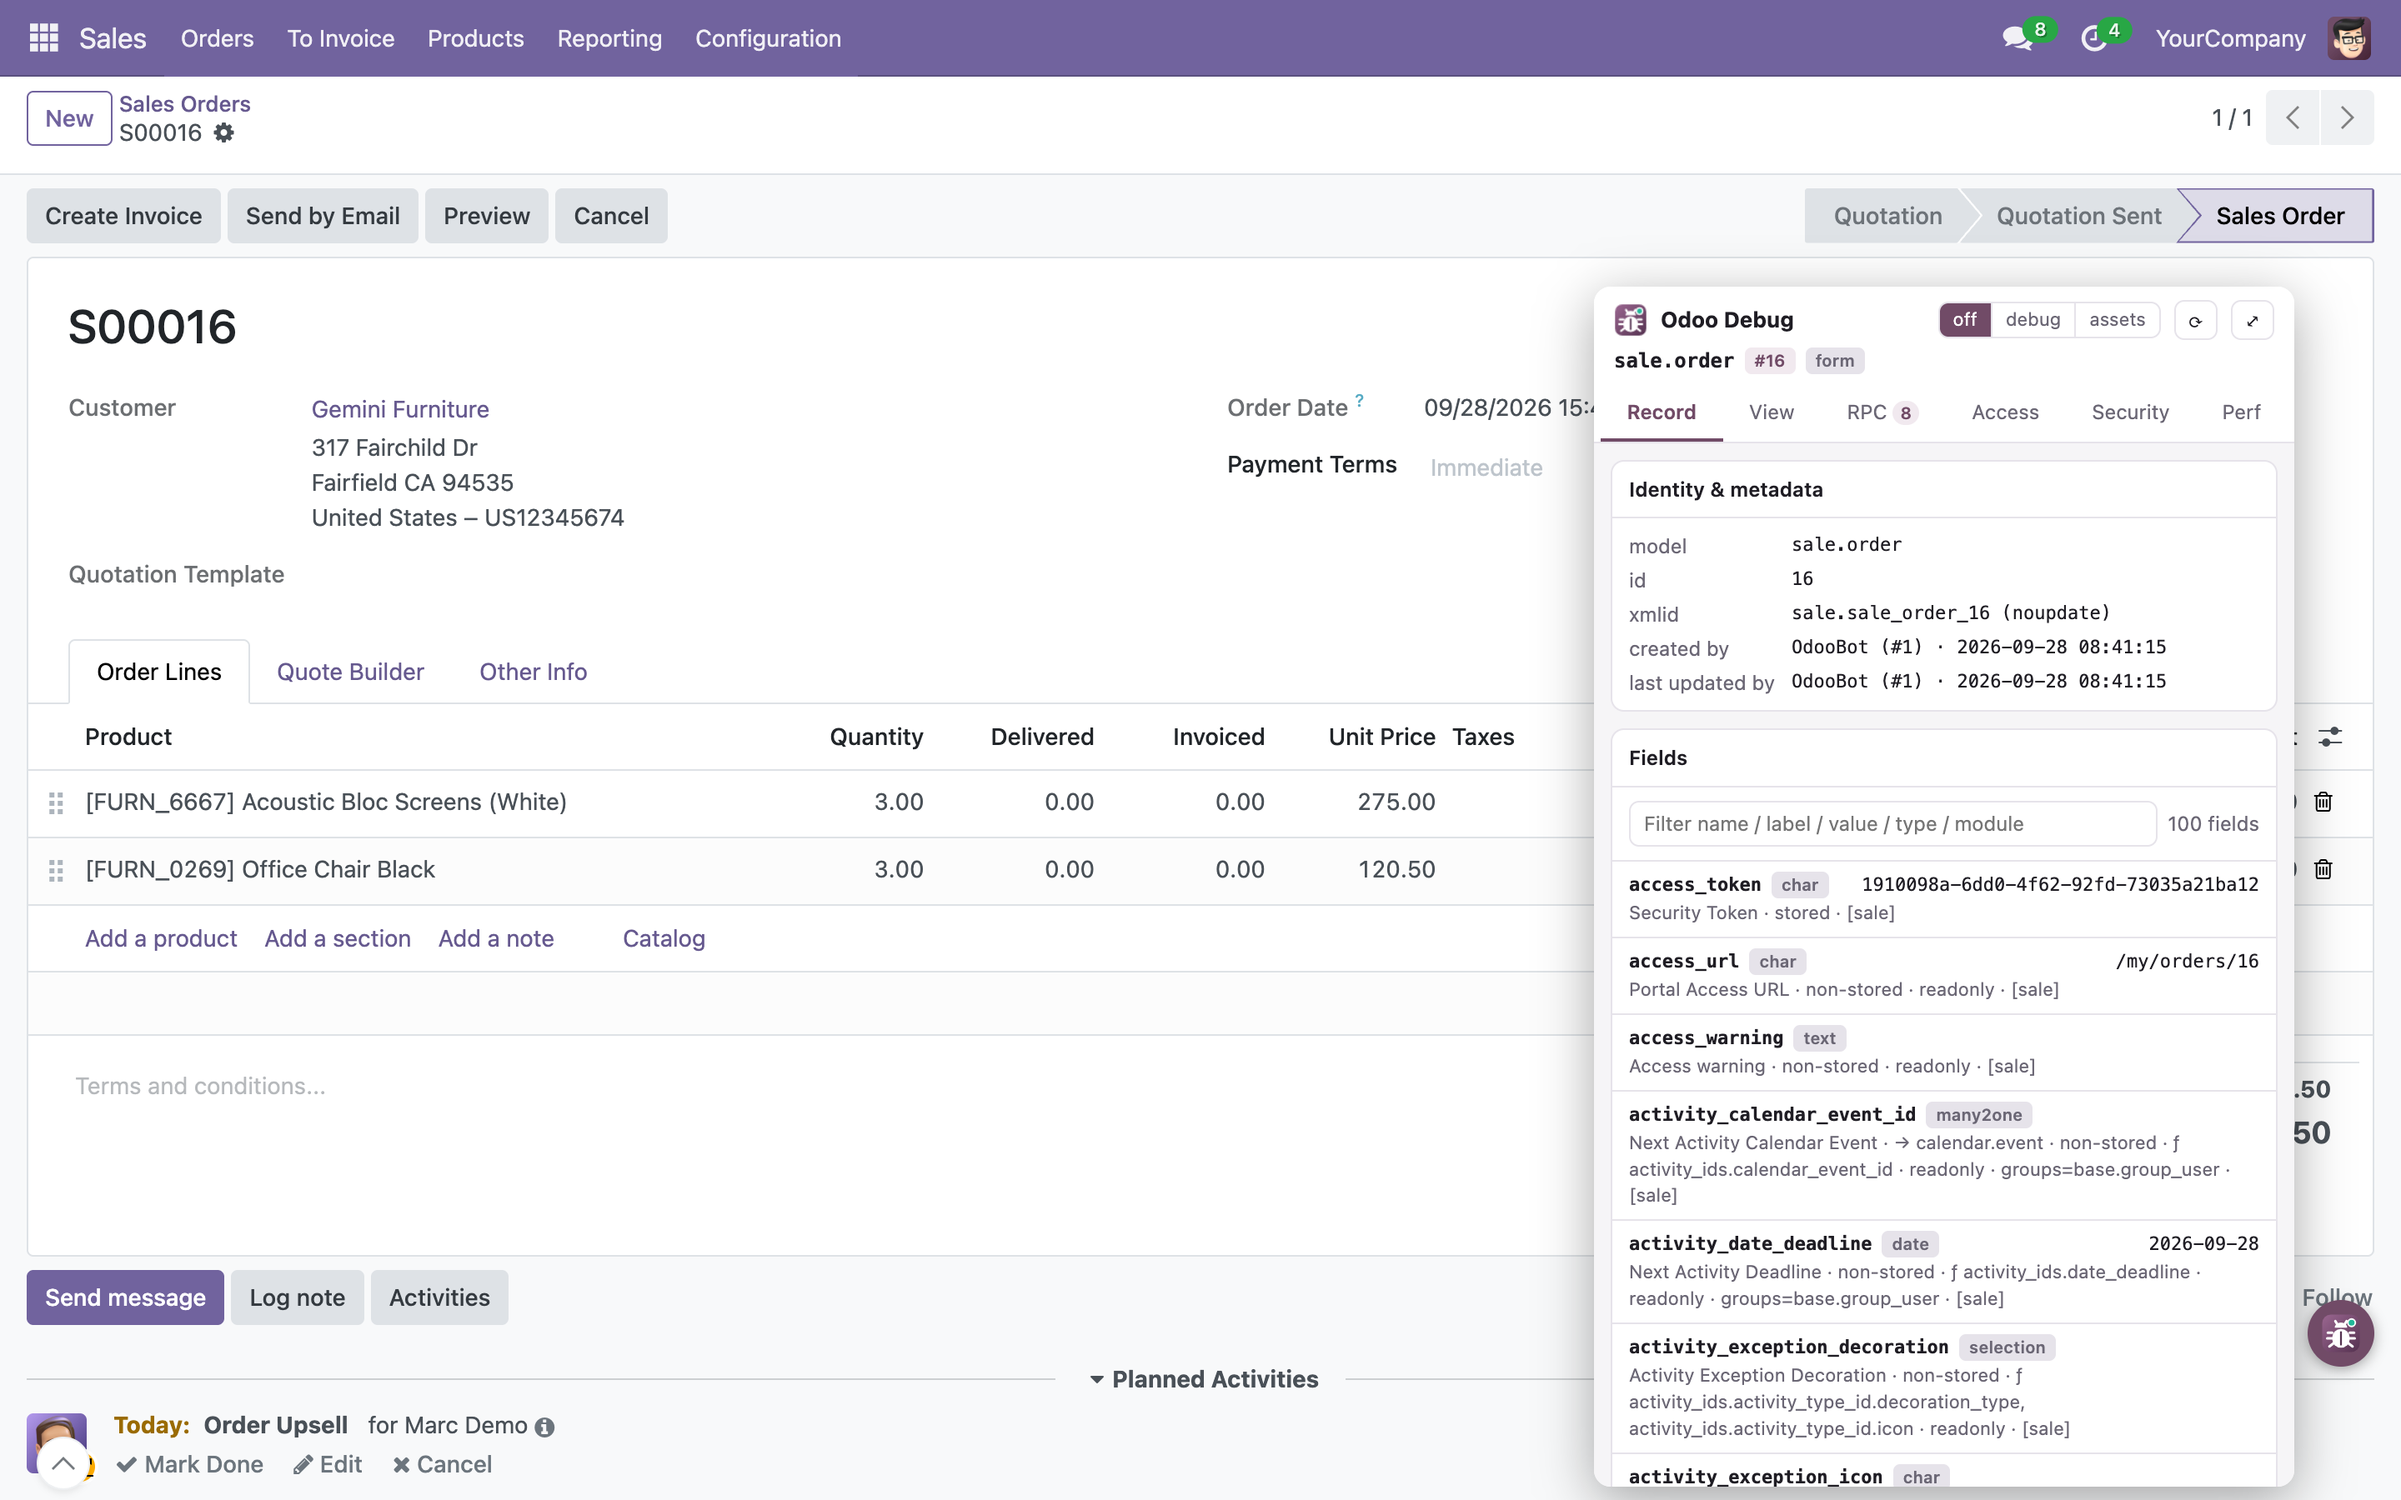
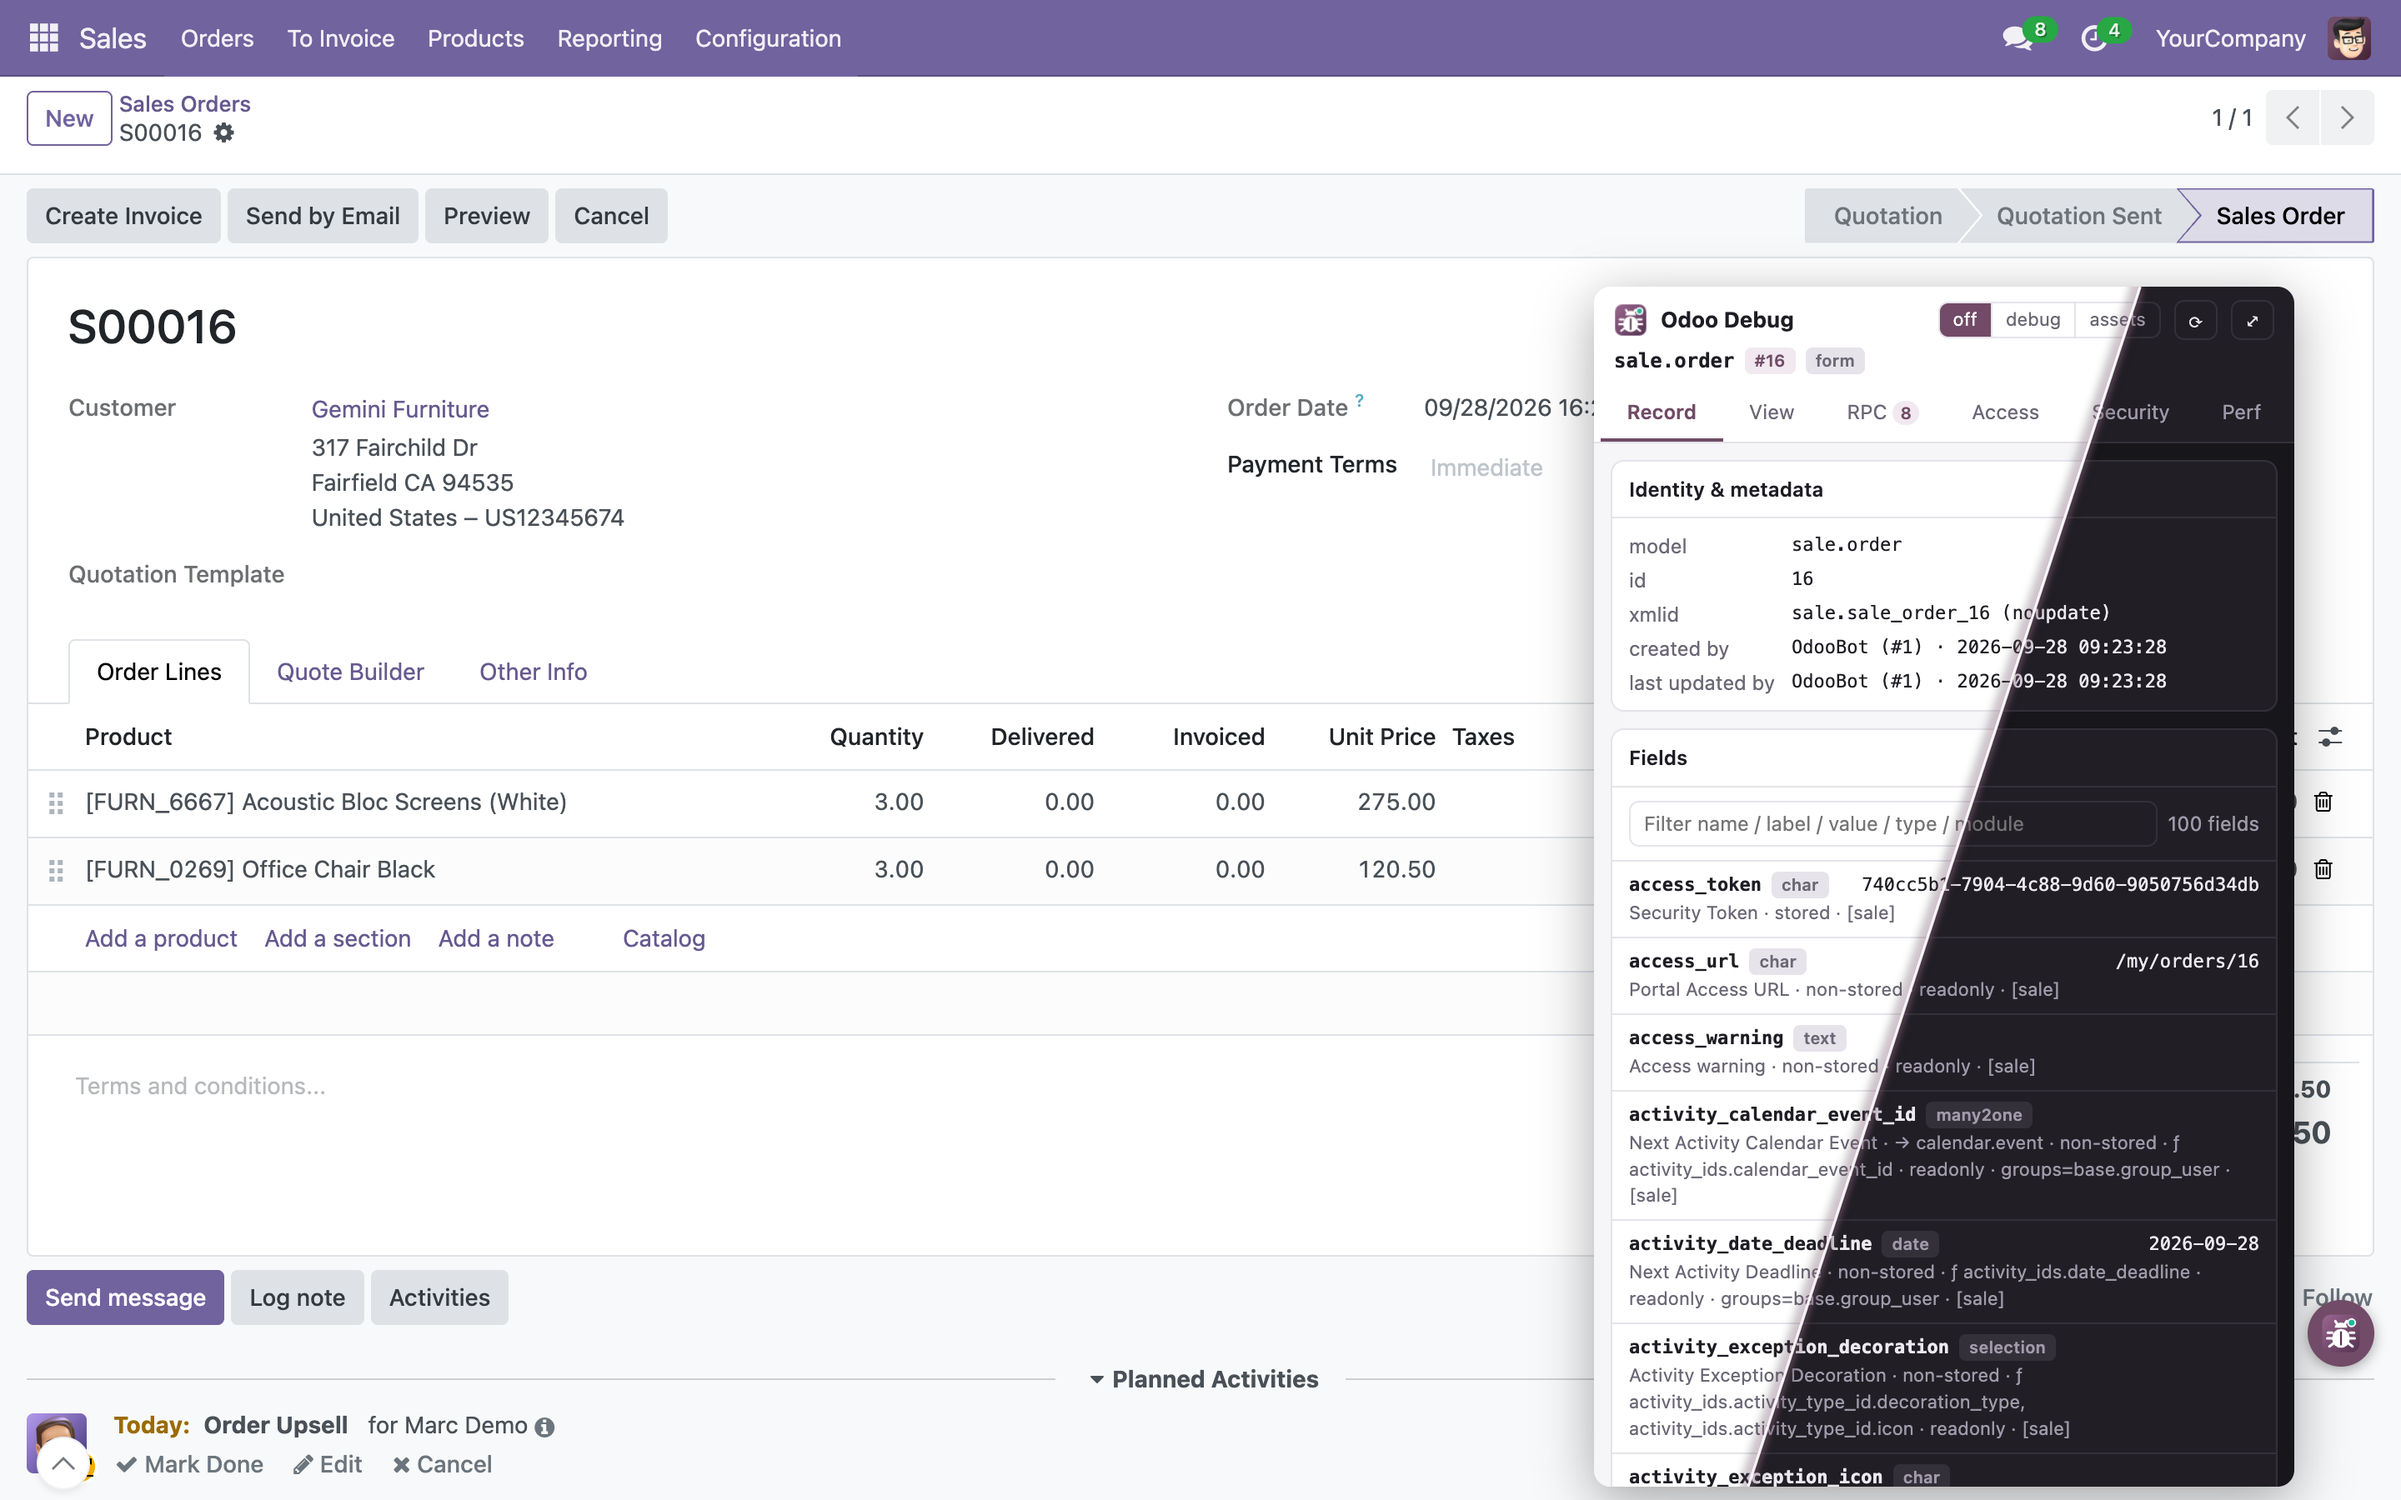
docs: hero screenshot split diagonally between light and dark theme
Same page captured twice (the theme applies live, so content matches),
composited with a diagonal across the panel to show the dark theme.

Changed region(s): [[0.7188, 0.1867, 0.9688, 0.9956]]

diff --git a/website/index.html b/website/index.html
@@ -227,7 +227,7 @@
     <div class="meta"><span>Chrome · Edge · Brave</span><span data-l="en">no backend</span><span data-l="vi">không backend</span><span data-l="en">no analytics</span><span data-l="vi">không analytics</span></div>
     <div class="window">
       <div class="bar"><i></i><i></i><i></i><span>odoo · S00016</span></div>
-      <img src="screenshots/overview.png" width="2880" height="1800" alt="Odoo Debug panel open next to a sales order">
+      <img src="screenshots/overview.png" width="2880" height="1800" alt="Odoo Debug panel open next to a sales order, half light theme, half dark theme">
     </div>
   </div>
 

diff --git a/README.md b/README.md
@@ -17,7 +17,7 @@ Inspect records, views, RPC calls, access rights and server performance without 
 
 [Website](https://unclecatvn.github.io/extension-debug-odoo/) · [Install](#installation) · [Features](#features) · [Usage](#usage) · [Privacy](#privacy--permissions) · [Development](#development) · [Changelog](CHANGELOG.md)
 
-<img src="website/screenshots/overview.png" alt="Odoo Debug panel open next to a sales order" width="100%">
+<img src="website/screenshots/overview.png" alt="Odoo Debug panel open next to a sales order, half light theme, half dark theme" width="100%">
 
 </div>
 
